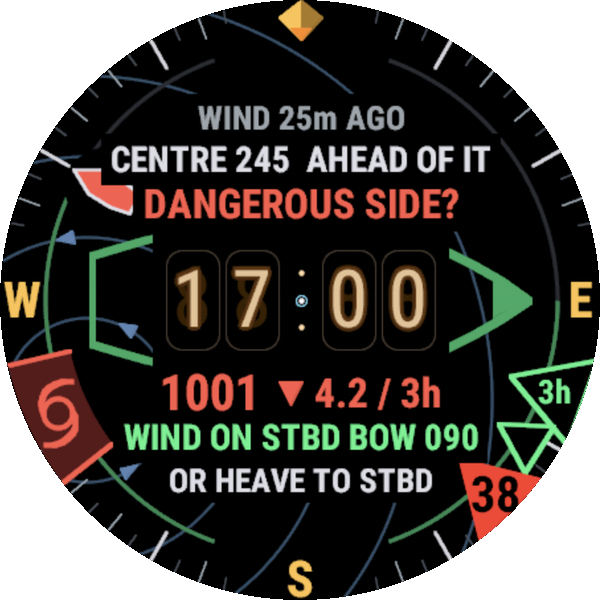
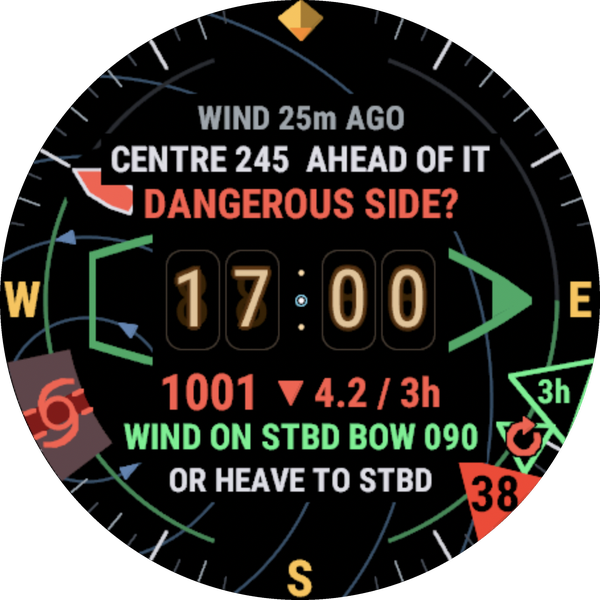
CelestialGlass page: the 0.4.11 Cyclones picture (two reds) and its alt text
Claude-Session: https://claude.ai/code/session_011xcx9GSkcZRhDXAkYat1Xd

diff --git a/content/celestialglass.md b/content/celestialglass.md
@@ -29,7 +29,7 @@ Press and hold the screen for about a second to step from one to the next.
 {{< figure src="/images/celestialglass/sight.png" alt="Sight mode: the fix stars named large at their bearings, and the time in Zulu" class="watch small" >}}
 
 1. **Sight:** for the ten minutes that matter. The fix stars in large type at their bearings, and the time in Zulu for the sight book. Everything else is gone.
-{{< figure src="/images/celestialglass/cyclones.png" alt="Tropical Cyclones mode: the storm's centre bearing 245, DANGEROUS SIDE?, and the course the rule gives" class="watch small" >}}
+{{< figure src="/images/celestialglass/cyclones.png" alt="Tropical Cyclones mode: the storm's centre bearing, Bowditch's band in deep red with the margin either side, DANGEROUS SIDE?" class="watch small" >}}
 
 2. **Tropical Cyclones:** Buys Ballot's law as a picture. From the wind and the barometer, where a storm's centre lies, which side of it you are on, and what the old rule says to do. *A teaching aid, not for use at sea.*
 {{< figure src="/images/celestialglass/tide.png" alt="Tide mode: a ring of water with now at the top, high water at 18:31 and low water at 00:43" class="watch small" >}}
